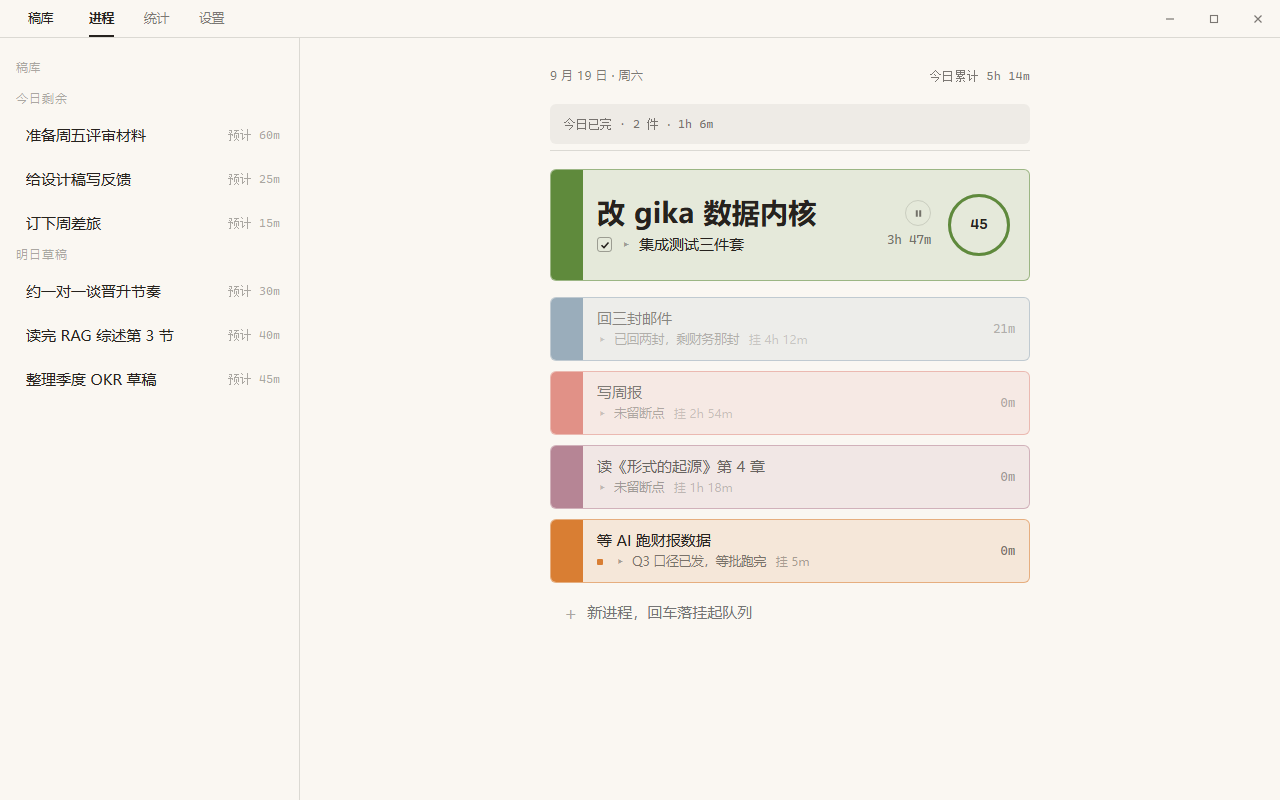
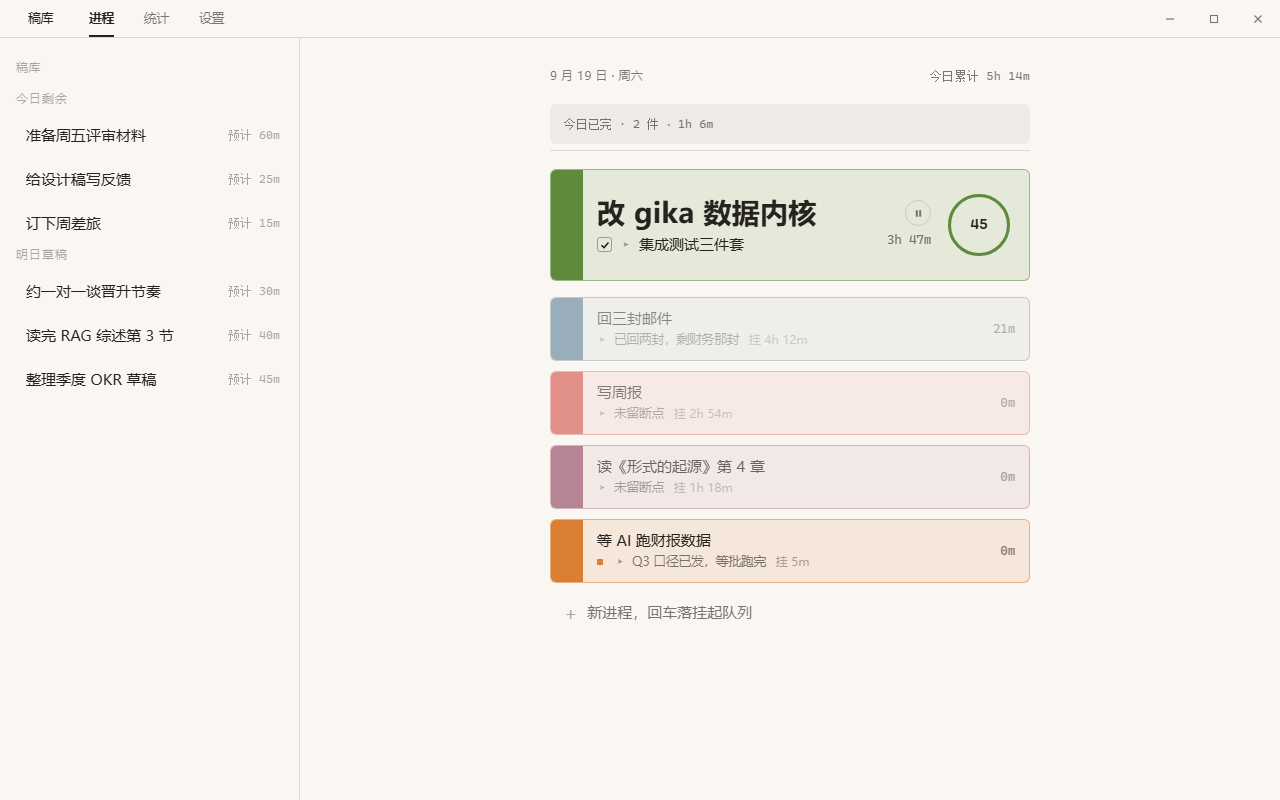
证据收尾：截图禁 LCD 彩边 + 休止符弹窗展开态暗色图

diff --git a/docs/screenshots/m4/checklist.md b/docs/screenshots/m4/checklist.md
@@ -64,3 +64,9 @@
 - `pnpm tauri build` 成功：`src-tauri/target/release/bundle/nsis/gika_1.0.0_x64-setup.exe`（**1.9MB**，NSIS）
 - release 产物直跑验证：`release-binary.png`（空库冷启动空态正常）
 - 静默安装本机挂起（环境问题，非包体缺陷）：完整记录见 `build-troubleshooting.md`
+
+## 证据质量注记（2026-09-19 复验收尾）
+
+- 全部 mock 截图以 `--disable-lcd-text` 重截（消 ClearType 彩边）；边缘彩边率实测 47.4% → 2.7%（scripts/fringe-check.mjs）
+- `board-dark-v2` 与 `board-dark` 字节同源（mock 下两图同链路）："设置切主题 → 版面换肤"的真实环境证据由 verify-m4-real.mjs 跨窗断言承担（主窗+浮层 data-theme 同步翻转），不靠这张图
+- 休止符弹窗暗色展开态见 `restpop-next-dark.png`（色脊入镜）
